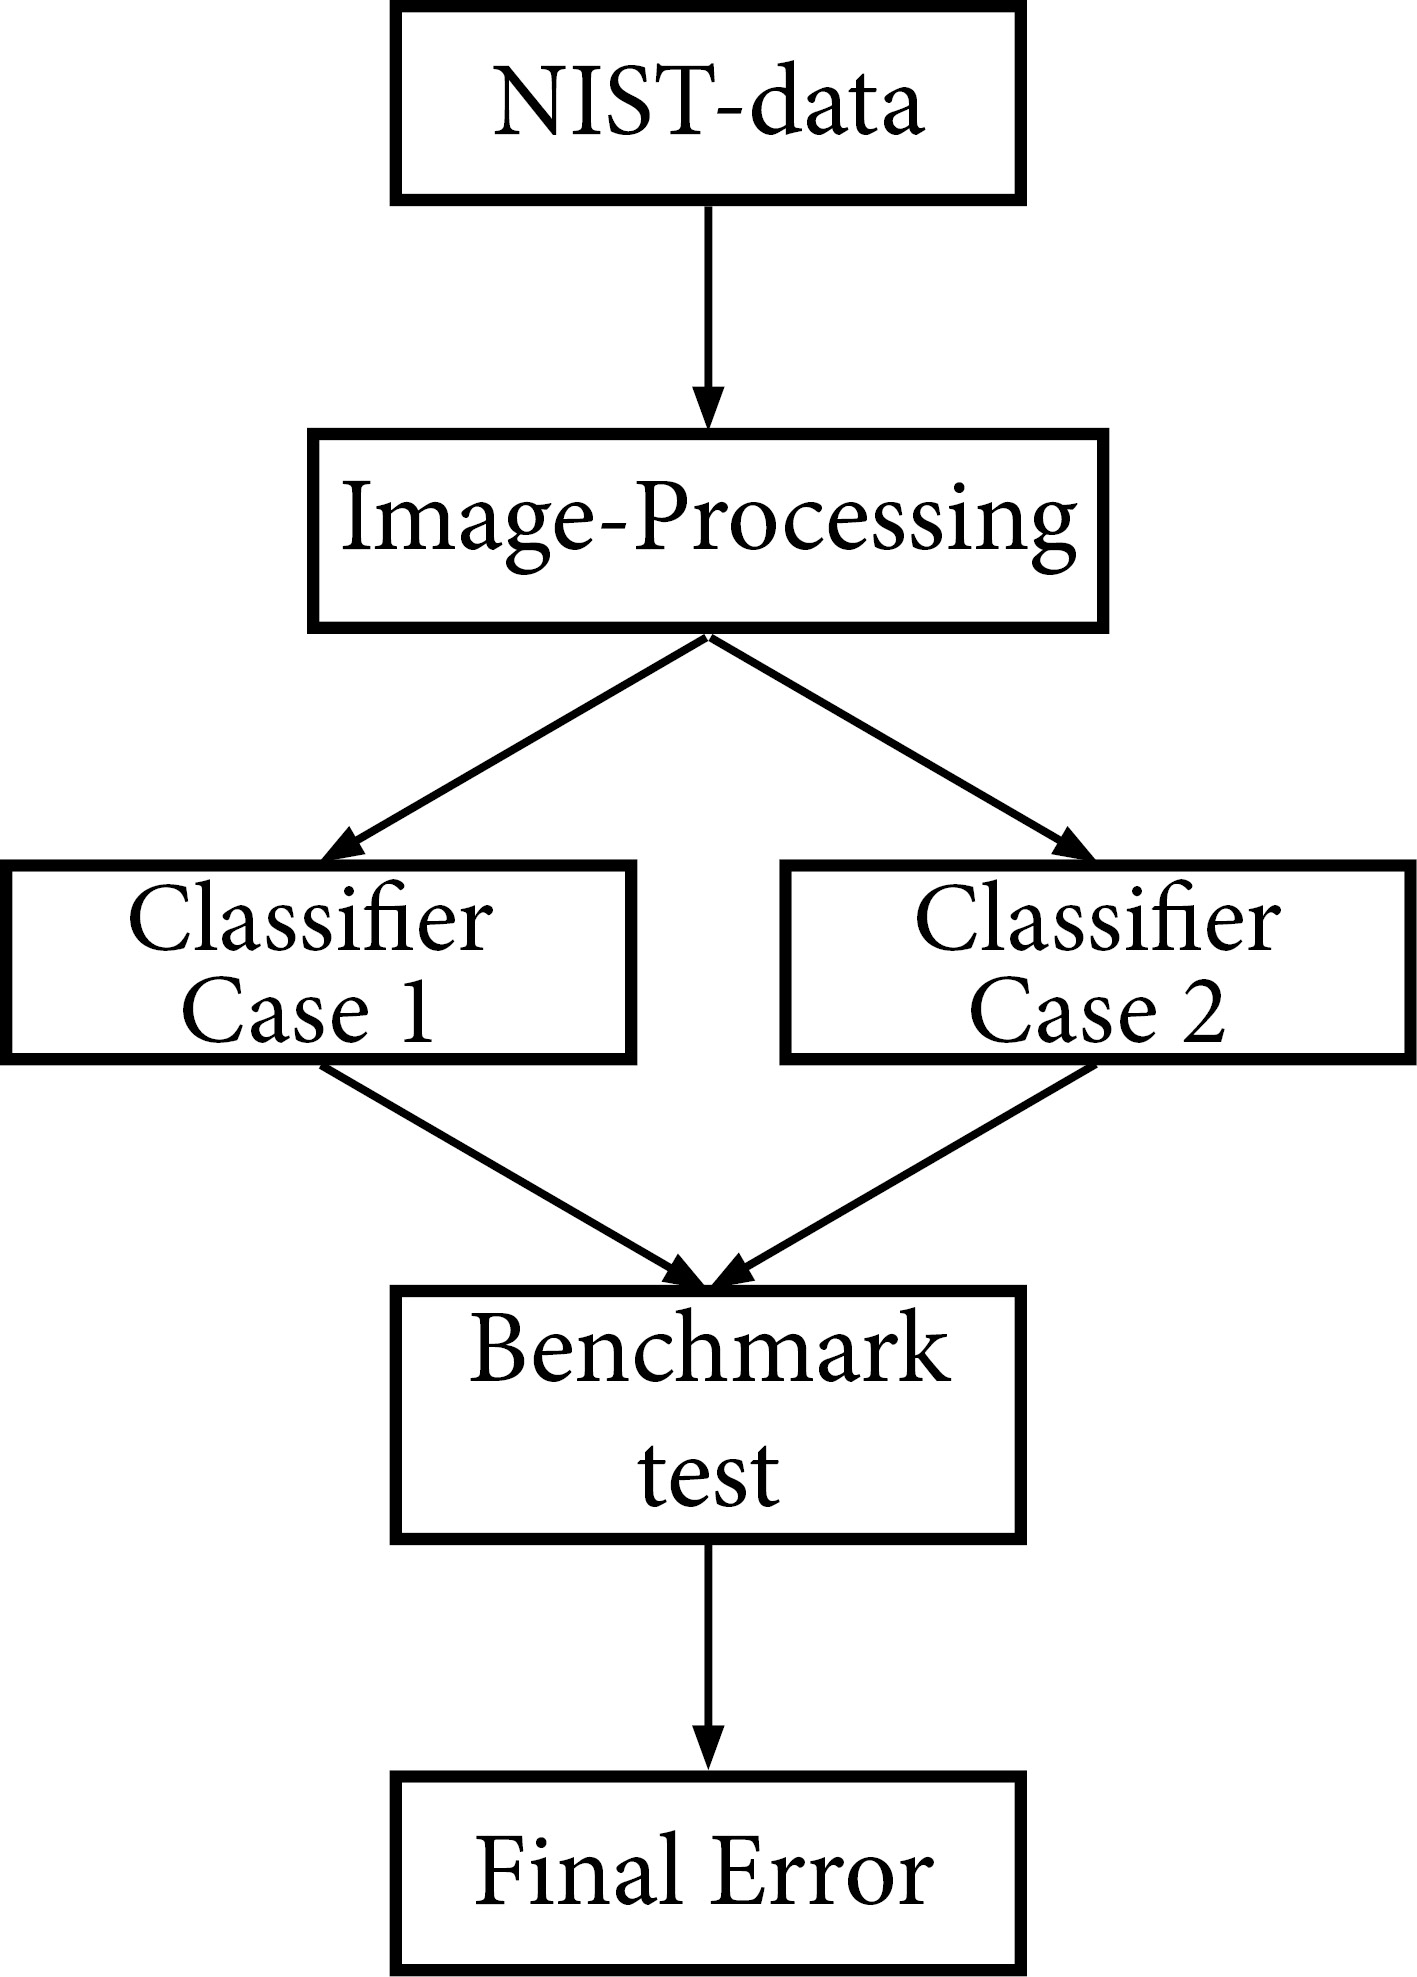
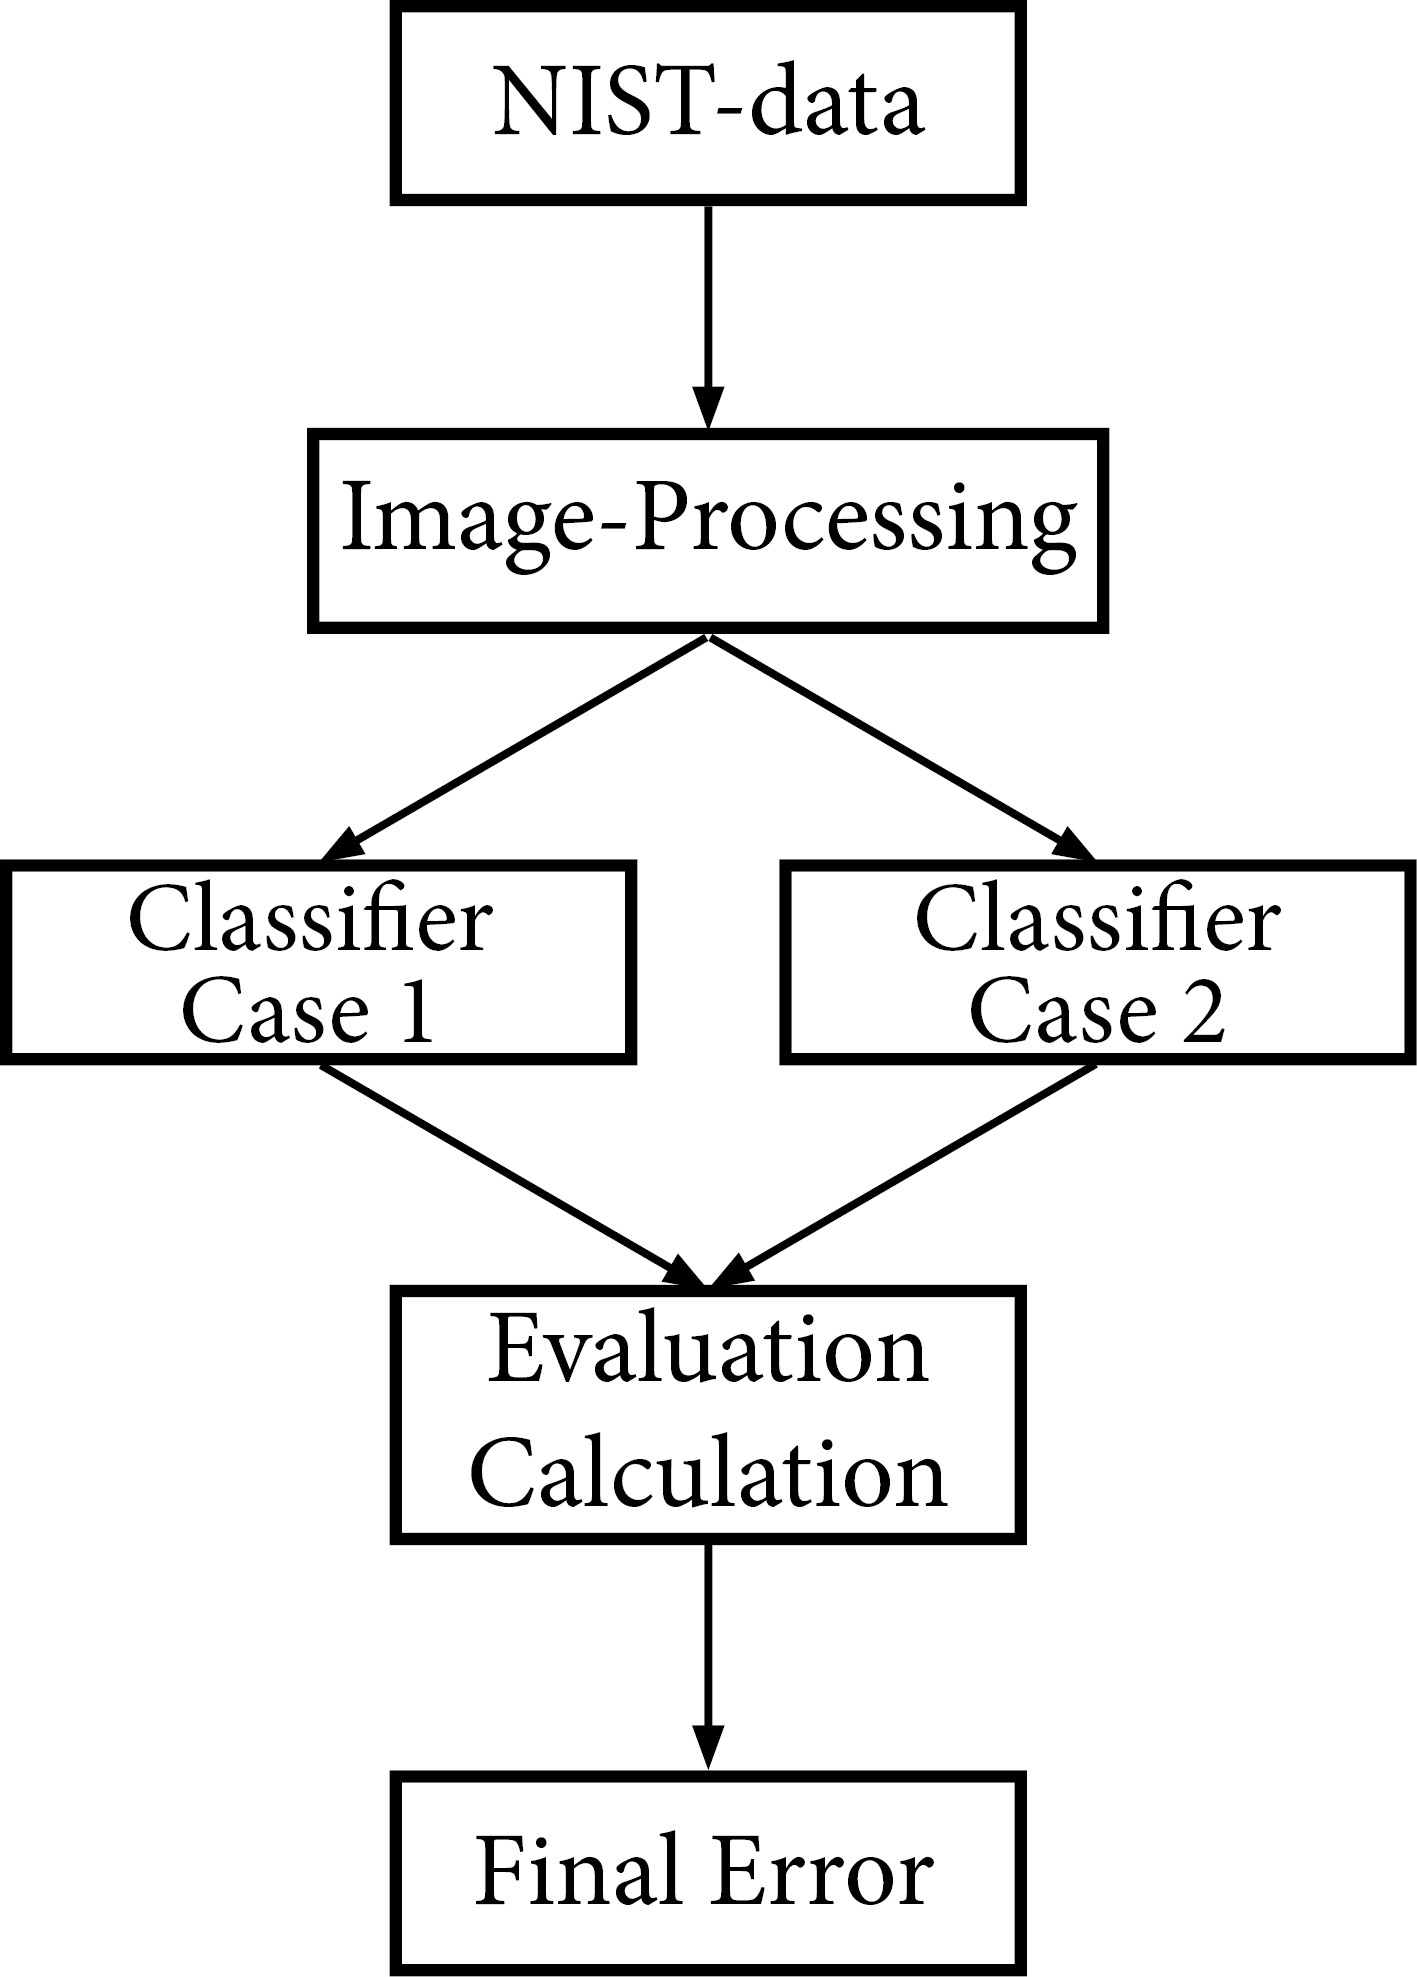
Hoofdstuk Case 2 verder getypt, images gemaak/aangepast

Changed region(s): [[0.3105, 0.648, 0.6831, 0.7714]]

diff --git a/report_sebas/Classifier_Design.tex b/report_sebas/Classifier_Design.tex
@@ -1,18 +1,54 @@
 \section{Classifier Design}
 \label{sec:ClasDes}
-
+As stated in the introduction, a classifier had to be build for two different cases. For both cases, a similar design approach was used. \begin{enumerate}
+	\item Investigate amount of data and use the theory to choose an initial representation method
+	\item Train simple classifiers based on the chosen representation method
+	\item Perform evaluation
+	\item If the performance does not meet the requirements, go back to the theory
+	\item If the performance meets the requirements, optimise the system
+\end{enumerate}
+This approach is visualised in figure \ref{fig:case_design}.
 \begin{figure}[H]
 	\centering
 	\includegraphics[scale=0.55]{images/Case_Design.jpg}
 	\caption{Design-process to determine the best representation method for each of the two cases described in the Introduction.}
 	\label{fig:case_design}
 \end{figure}
-Sebas
+\noindent The image processing described in chapter \ref{sec:ImPros} was kept the same for both cases, since it is a very subtle processing and will benefit all potential methods.
 
 \subsection{Case 1}
 \label{sec:Case1}
+\textbf{Case Summary:} Design a system for training on all cheques at once. The system must be able to correctly classify the handwritten digits after being trained on at least 200 objects per class.\\
 Smag
 
 \subsection{Case 2}
 \label{sec:Case2}
-Jur (+sebas)
+\textbf{Case Summary:} Design a system for training on each batch of cheques to be processed. The system must be able to correctly classify the handwritten digits after being trained on a maximum of 10 objects per class.\\
+\\
+\noindent The amount of data available in this case poses some restrictions. While a pixel-data representation worked very well in Case 1, it will have too little data to work with in this case.  
+\\
+\subsubsection*{Representation by Features}
+To start out, features were chosen as the best representation for this case. The function \texttt{im\_features} from the prtools-toolbox was used to compute 14 different features of all the images in the pre-processed database. Because the this amount of features is relatively high compared to the amount of data that is used, some form of feature reduction needs to by applied. MatLab's forward feature selection (\texttt{featself}) was used initially to get a sense for the features that should be used and the features that could be omitted. This was done for four cases; with and without scaling of the data, and with and without implementing a separate test-set in the \texttt{featself} function. The resulting performance can be seen in figure \ref{fig:featsel_perf}
+\begin{figure}[H]
+	\centering
+	\includegraphics[scale=0.45]{images/featsel_perf.jpg}
+	\caption{Performance of features selected by forward feature selection. Both scaling and non-scaling, and with or without test-set are shown.}
+	\label{fig:featsel_perf}
+\end{figure}
+\noindent As can be seen in the figure, there are a lot of differences however between the different parameters. There appears to be an optimal amount of features however, somewhere between 4 and 12. In order to get a better grip on which features to use, a brute force approach was taken. Each possible combination between 3 and 14 features was used for an error-calculation (using the \texttt{testc}  function of PRTools) of four different classifiers (Fischer's Classifier, Linear Classifier, Nearest Mean Classifier and a Nearest Mean Classifier trained on normalized data). After running this setup overnight, the following results were obtained: (see figure \ref{fig:feat_bf_error}).
+\begin{figure}[H]
+	\centering
+	\includegraphics[scale=0.45]{images/feat_bf_error.jpg}
+	\caption{Error of different combinations of features for four different trained classifiers; Fischer's (\texttt{fischerc}), Linear Bayes-Normal (\texttt{ldc}), Nearest Mean (\texttt{nmc}) and a normalised version of Nearest Mean.}
+	\label{fig:feat_bf_error}
+\end{figure}
+\noindent This figure also clearly suggests an optimal combination of features. It also shows that the Linear Classifier will probably perform best, although even its best error is not under the 25 percent yet. \\
+Next, for the LDC classifier only, each possible combination of 10 features was tested. In figure \ref{fig:feat_jumps} the error of each of these combinations can be seen. Very noticeable are the large drops and jumps in the graph, visualised with the orange line below it. after close inspection of the used features at these points, it was discovered that every increase in error corresponded to the same four features being added, namely 'Convex Area', 'Conves Hull', 'Convex Image' and 'Eccentricity'. It was decided to omit these features, leaving the final dataset with the desired amount of 10 features.
+\begin{figure}[H]
+	\centering
+	\includegraphics[scale=0.45]{images/feat_jumps.jpg}
+	\caption{Error of the LDC-classifier for each possible combination of 10 out of 14 features. The orange line indicates places with a large increase or decrease in error-value.}
+	\label{fig:feat_jumps}
+\end{figure}
+\noindent At this time, the complete system consisted of a Linear Classifier (LDC) trained on the dataset from which 10 features were selected. Sadly though, testruns of the algorithm yielded an error of 30\%. Since this was too low to meet the requirements, a different approach was taken. \\
+\subsubsection*{Representation by Dissimilarity}
